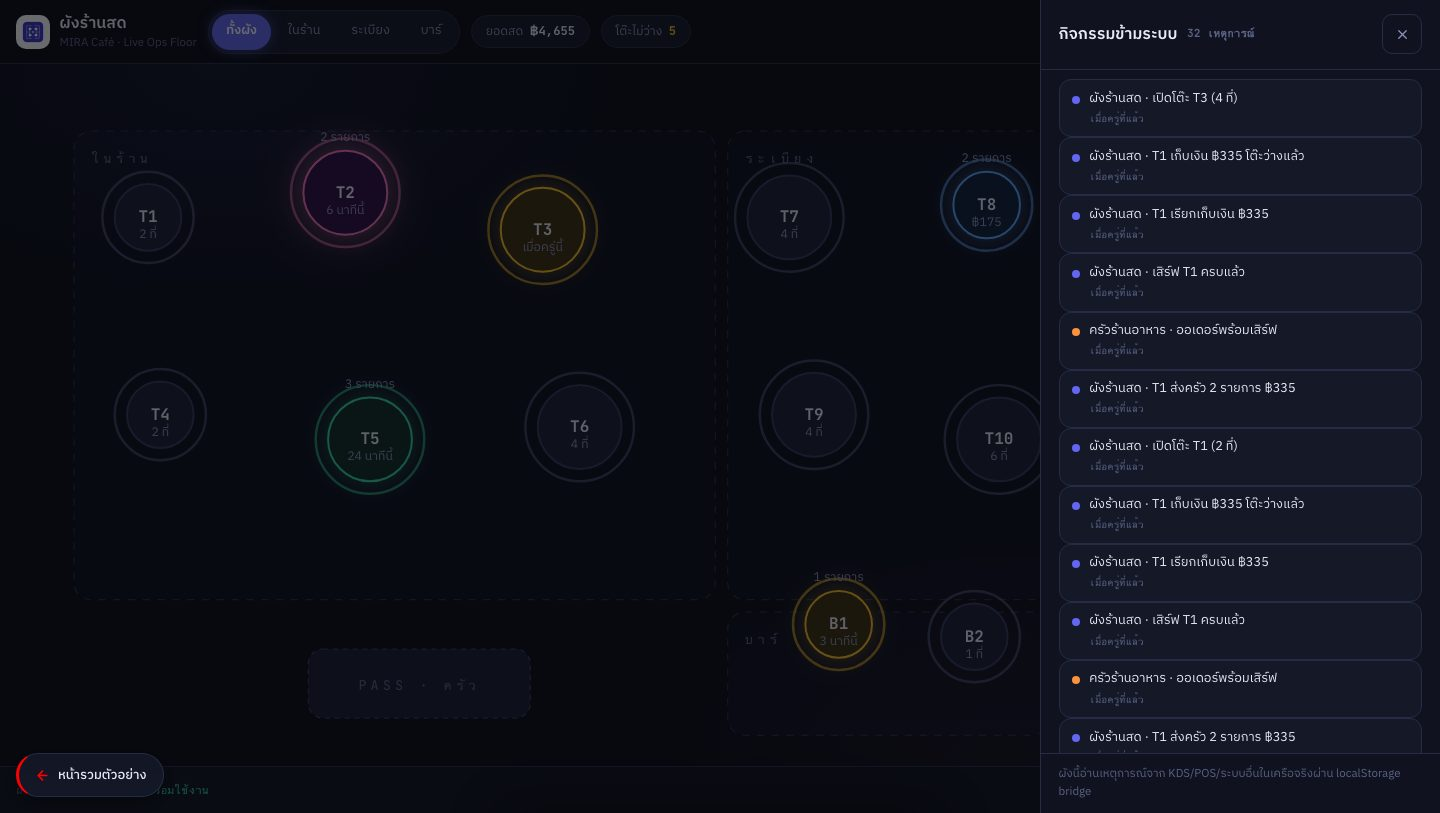
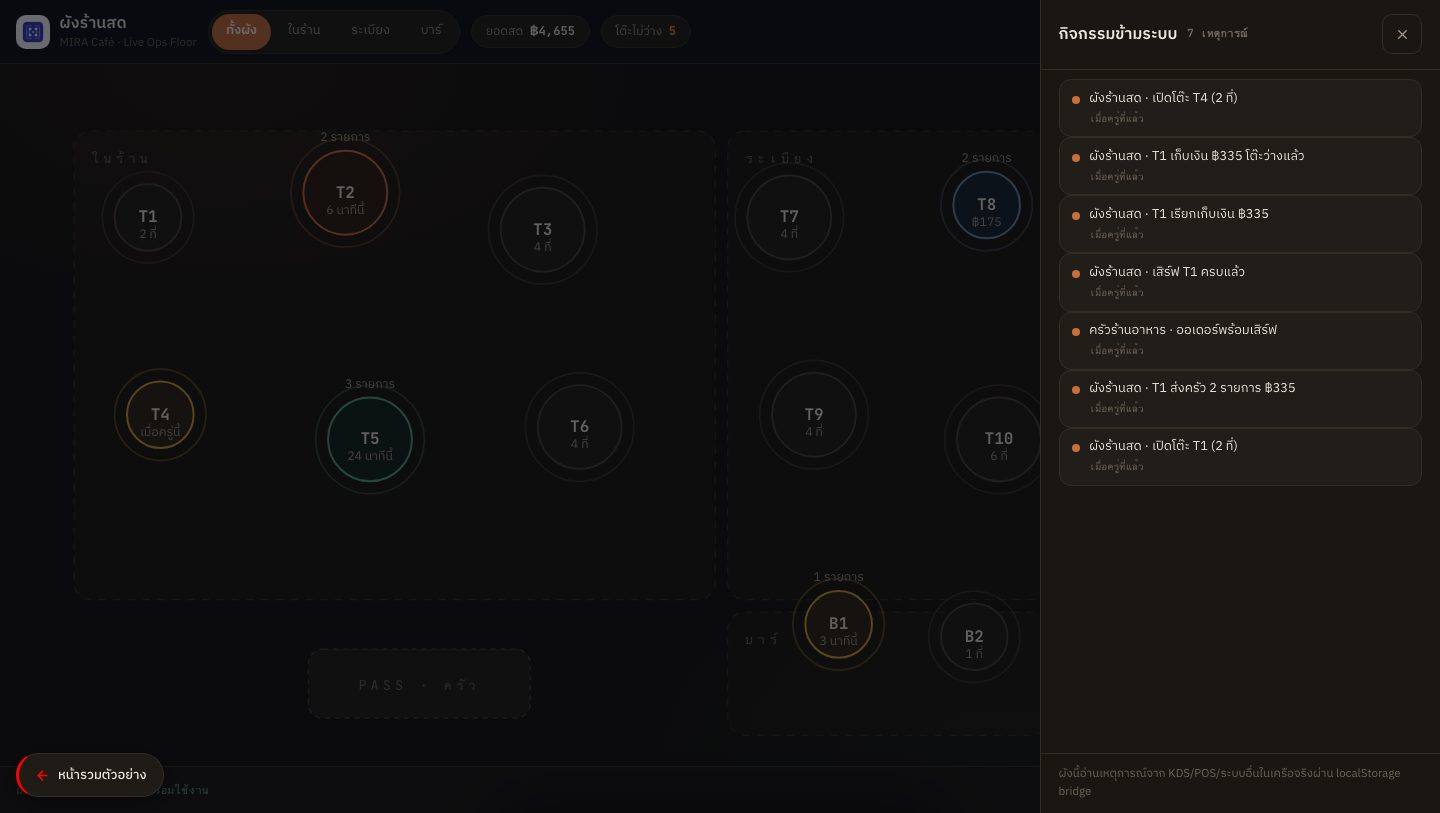
Floor: fix hover jump bug + replace AI-look indigo/neon palette with warm matte ops palette
- hover bug: CSS transform:scale() on .tbl replaced the SVG transform attribute, teleporting tables — removed entirely, now only stroke-width emphasis on hover
- palette: indigo/neon glow (signature AI look) -> warm matte: terracotta accent #c96f3b, warm charcoal bg #15120f, muted status colors, no drop-shadow glows
- all JS-side colors (status map, feed dots, sheet chips, canvas dots) muted to match
- retested after restyle: 25/25 PASS, 0 JS errors; hub card accent synced

diff --git a/systems/floor/index.html b/systems/floor/index.html
@@ -12,11 +12,11 @@
 <link href="https://fonts.googleapis.com/css2?family=IBM+Plex+Sans+Thai:wght@300;400;500;600&family=JetBrains+Mono:wght@400;500;700&display=swap" rel="stylesheet">
 <style>
 :root{
-  --acc:#6366f1; --acc-hi:#818cf8; --acc-deep:#4338ca;
-  --bg:#0a0c14; --bg2:#10131f; --panel:#141827; --panel2:#1a1f33;
-  --line:#262c44; --line2:#333b5e;
-  --ink:#e8eaf6; --muted:#8b93b8; --dim:#5a6285;
-  --green:#34d399; --amber:#fbbf24; --orange:#fb923c; --red:#f87171; --blue:#60a5fa; --pink:#f472b6;
+  --acc:#c96f3b; --acc-hi:#e08a52; --acc-deep:#a8542a;
+  --bg:#15120f; --bg2:#1a1713; --panel:#211d18; --panel2:#282219;
+  --line:#332d24; --line2:#4a4132;
+  --ink:#ece6dc; --muted:#a3988a; --dim:#6e6558;
+  --green:#5da383; --amber:#d9a13b; --orange:#c96f3b; --red:#c65f5f; --blue:#6b8cae; --pink:#b87a94;
   --mono:'JetBrains Mono',monospace;
   --spring:cubic-bezier(.34,1.56,.64,1);
 }
@@ -28,10 +28,10 @@ input{font:inherit;color:inherit}
 :focus-visible{outline:2px solid var(--acc-hi);outline-offset:2px}
 [hidden]{display:none!important}
 .mono{font-family:var(--mono);font-variant-numeric:tabular-nums}
-::selection{background:#312e81}
+::selection{background:#4a3a28}
 
 /* ============ BOOT ============ */
-.boot{position:fixed;inset:0;z-index:900;display:grid;place-items:center;background:radial-gradient(900px 600px at 50% 40%,#141a36,#0a0c14 70%)}
+.boot{position:fixed;inset:0;z-index:900;display:grid;place-items:center;background:radial-gradient(900px 600px at 50% 40%,#241c12,#15120f 70%)}
 .boot-in{text-align:center}
 .radar{width:120px;height:120px;margin:0 auto 1.4rem;position:relative}
 .radar::before,.radar::after{content:'';position:absolute;inset:0;border-radius:50%;border:1.5px solid var(--acc)}
@@ -43,7 +43,7 @@ input{font:inherit;color:inherit}
 .boot .ver{font-family:var(--mono);font-size:.78rem;color:var(--acc-hi);letter-spacing:.35em;margin-top:.3rem}
 .boot .stat{font-family:var(--mono);font-size:.72rem;color:var(--dim);margin-top:1.2rem;min-height:1.2em}
 .boot .bar{width:200px;height:2px;background:var(--line);margin:.7rem auto 0;border-radius:2px;overflow:hidden}
-.boot .bar i{display:block;height:100%;width:0;background:linear-gradient(90deg,var(--acc),var(--pink));transition:width .3s}
+.boot .bar i{display:block;height:100%;width:0;background:linear-gradient(90deg,var(--acc),var(--amber));transition:width .3s}
 
 /* ============ SHELL ============ */
 .app{min-height:100vh;display:flex;flex-direction:column}
@@ -53,7 +53,7 @@ input{font:inherit;color:inherit}
 .brand small{font-weight:400;color:var(--dim);font-size:.72rem;display:block;margin-top:-.2rem}
 .zones{display:flex;background:var(--panel);border:1px solid var(--line);border-radius:99px;padding:3px;gap:2px}
 .zones button{padding:.35rem .9rem;border-radius:99px;font-size:.8rem;color:var(--muted);min-height:36px;transition:all .2s var(--spring)}
-.zones button.on{background:var(--acc);color:#fff;font-weight:600;box-shadow:0 0 14px rgba(99,102,241,.5)}
+.zones button.on{background:var(--acc);color:#fff;font-weight:600}
 .kpi-pill{display:flex;align-items:center;gap:.4rem;background:var(--panel);border:1px solid var(--line);border-radius:99px;padding:.35rem .85rem;font-size:.76rem;color:var(--muted)}
 .kpi-pill b{font-family:var(--mono);font-weight:700;color:var(--ink)}
 .kpi-pill.hot b{color:var(--amber)}
@@ -61,33 +61,33 @@ input{font:inherit;color:inherit}
 .clock{font-family:var(--mono);font-size:.88rem;color:var(--muted)}
 .icbtn{width:42px;height:42px;border-radius:11px;border:1px solid var(--line);display:grid;place-items:center;color:var(--muted);transition:all .2s;background:var(--panel)}
 .icbtn:hover{border-color:var(--acc);color:var(--acc-hi)}
-.icbtn.on{border-color:var(--acc);color:var(--acc-hi);box-shadow:0 0 12px rgba(99,102,241,.35)}
+.icbtn.on{border-color:var(--acc);color:var(--acc-hi)}
 
 /* ============ MAIN ============ */
 .main{flex:1;display:grid;grid-template-columns:1fr 330px;min-height:0}
 @media(max-width:1000px){.main{grid-template-columns:1fr}.rail-r{display:none}}
 .floor-wrap{position:relative;overflow:hidden;background:
-  radial-gradient(700px 400px at 20% 0%,rgba(99,102,241,.08),transparent 60%),
-  radial-gradient(600px 400px at 90% 100%,rgba(244,114,182,.05),transparent 60%),var(--bg)}
+  radial-gradient(700px 400px at 20% 0%,rgba(201,111,59,.06),transparent 60%),
+  radial-gradient(600px 400px at 90% 100%,rgba(93,163,131,.04),transparent 60%),var(--bg)}
 #floorDots{position:absolute;inset:0;pointer-events:none;z-index:5}
 svg#floorSvg{display:block;width:100%;height:100%;min-height:520px}
-.zone-rect{fill:rgba(99,102,241,.03);stroke:var(--line);stroke-dasharray:6 6;stroke-width:1;rx:14}
+.zone-rect{fill:rgba(217,161,59,.03);stroke:var(--line);stroke-dasharray:6 6;stroke-width:1;rx:14}
 .zone-label{font-family:var(--mono);font-size:11px;letter-spacing:.3em;fill:var(--dim);text-transform:uppercase}
-.tbl{cursor:pointer;transition:transform .25s var(--spring)}
-.tbl:hover{transform:scale(1.08)}
-.tbl .base{transition:fill .4s,stroke .4s,filter .4s}
+.tbl{cursor:pointer}
+.tbl .base{transition:fill .4s,stroke .4s}
+.tbl:hover .base{stroke-width:2.6}
 .tbl .tno{font-family:var(--mono);font-size:13px;font-weight:700;fill:var(--ink);text-anchor:middle;pointer-events:none}
 .tbl .tsub{font-size:10px;fill:var(--muted);text-anchor:middle;pointer-events:none}
-.tbl.st-empty .base{fill:#1b2033;stroke:var(--line2)}
-.tbl.st-open .base{fill:#3b2f10;stroke:var(--amber);filter:drop-shadow(0 0 10px rgba(251,191,36,.35))}
-.tbl.st-cooking .base{fill:#3c1f10;stroke:var(--orange);filter:drop-shadow(0 0 12px rgba(251,146,60,.45))}
-.tbl.st-served .base{fill:#0f2e22;stroke:var(--green);filter:drop-shadow(0 0 10px rgba(52,211,153,.35))}
-.tbl.st-billing .base{fill:#10203c;stroke:var(--blue);filter:drop-shadow(0 0 10px rgba(96,165,250,.4))}
-.tbl.st-ready .base{fill:#2e1040;stroke:var(--pink);filter:drop-shadow(0 0 16px rgba(244,114,182,.6));animation:readyPulse 1s ease-in-out infinite}
+.tbl.st-empty .base{fill:#211d18;stroke:var(--line2)}
+.tbl.st-open .base{fill:#2e2414;stroke:var(--amber)}
+.tbl.st-cooking .base{fill:#2e1c11;stroke:var(--orange)}
+.tbl.st-served .base{fill:#14241c;stroke:var(--green)}
+.tbl.st-billing .base{fill:#17222e;stroke:var(--blue)}
+.tbl.st-ready .base{fill:#2c1822;stroke:var(--pink);animation:readyPulse 1.2s ease-in-out infinite}
 @keyframes readyPulse{50%{stroke-width:3.5}}
-.tbl.dim{opacity:.18;pointer-events:none}
-.tbl.sel .base{stroke-width:3}
-.heat-ring{fill:none;stroke-width:2;opacity:.6;pointer-events:none}
+.tbl.dim{opacity:.22;pointer-events:none}
+.tbl.sel .base{stroke-width:2.6}
+.heat-ring{fill:none;stroke-width:1.4;opacity:.35;pointer-events:none}
 
 /* right rail */
 .rail-r{border-left:1px solid var(--line);background:var(--bg2);display:flex;flex-direction:column;min-height:0}
@@ -127,7 +127,7 @@ svg#floorSvg{display:block;width:100%;height:100%;min-height:520px}
 .sheet-f{padding:.7rem 1.1rem 1.1rem;display:flex;gap:.6rem;border-top:1px solid var(--line)}
 .btn{display:inline-flex;align-items:center;justify-content:center;gap:.5rem;font-weight:600;border-radius:12px;padding:.75rem 1.1rem;min-height:48px;transition:all .18s var(--spring);flex:1;font-size:.9rem}
 .btn:active{transform:scale(.97)}
-.btn-a{background:var(--acc);color:#fff;box-shadow:0 8px 24px -8px rgba(99,102,241,.6)}
+.btn-a{background:var(--acc);color:#fff;box-shadow:0 8px 24px -10px rgba(201,111,59,.5)}
 .btn-a:hover{background:var(--acc-hi)}
 .btn-o{border:1.5px solid var(--line2);color:var(--muted)}
 .btn-o:hover{border-color:var(--acc);color:var(--acc-hi)}
@@ -241,7 +241,7 @@ svg#floorSvg{display:block;width:100%;height:100%;min-height:520px}
 
 <div class="toast" id="toast"></div>
 
-<a href="../" aria-label="กลับไปหน้ารวมตัวอย่าง" style="position:fixed;left:16px;bottom:16px;z-index:800;display:inline-flex;align-items:center;gap:8px;min-height:44px;background:rgba(20,24,39,.92);backdrop-filter:blur(8px);border:1px solid #262c44;border-left:3px solid #FF0000;border-radius:99px;padding:9px 16px;font-size:13px;font-weight:500;color:#e8eaf6;text-decoration:none;box-shadow:0 6px 20px rgba(0,0,0,.4)">
+<a href="../" aria-label="กลับไปหน้ารวมตัวอย่าง" style="position:fixed;left:16px;bottom:16px;z-index:800;display:inline-flex;align-items:center;gap:8px;min-height:44px;background:rgba(33,29,24,.92);backdrop-filter:blur(8px);border:1px solid #332d24;border-left:3px solid #FF0000;border-radius:99px;padding:9px 16px;font-size:13px;font-weight:500;color:#ece6dc;text-decoration:none;box-shadow:0 6px 20px rgba(0,0,0,.4)">
 <svg width="15" height="15" viewBox="0 0 24 24" fill="none" stroke="#FF0000" stroke-width="2.5" stroke-linecap="round" stroke-linejoin="round"><path d="M19 12H5M12 19l-7-7 7-7"/></svg>
 หน้ารวมตัวอย่าง
 </a>
@@ -268,7 +268,7 @@ var TABLE_DEF=[
   {no:'B1',x:680,y:450,z:'bar',c:1},{no:'B2',x:790,y:460,z:'bar',c:1}
 ];
 var ZONES={inside:{n:'ในร้าน',x:60,y:50,w:520,h:380},patio:{n:'ระเบียง',x:590,y:50,w:260,h:380},bar:{n:'บาร์',x:590,y:440,w:260,h:100}};
-var ST={empty:{n:'ว่าง',c:'#5a6285'},open:{n:'เปิดโต๊ะ',c:'#fbbf24'},cooking:{n:'รอครัว',c:'#fb923c'},ready:{n:'พร้อมเสิร์ฟ',c:'#f472b6'},served:{n:'เสิร์ฟแล้ว',c:'#34d399'},billing:{n:'เรียกเก็บเงิน',c:'#60a5fa'}};
+var ST={empty:{n:'ว่าง',c:'#6e6558'},open:{n:'เปิดโต๊ะ',c:'#d9a13b'},cooking:{n:'รอครัว',c:'#c96f3b'},ready:{n:'พร้อมเสิร์ฟ',c:'#b87a94'},served:{n:'เสิร์ฟแล้ว',c:'#5da383'},billing:{n:'เรียกเก็บเงิน',c:'#6b8cae'}};
 
 function seed(){
   var t=Date.now();
@@ -322,7 +322,7 @@ function renderFloor(){
   });
   // kitchen pass (จุดส่งอาหาร)
   var pass=el('g',{});
-  pass.appendChild(el('rect',{x:250,y:470,width:180,height:56,rx:12,fill:'#1a1f33',stroke:'#333b5e','stroke-dasharray':'4 4'}));
+  pass.appendChild(el('rect',{x:250,y:470,width:180,height:56,rx:12,fill:'#211d18',stroke:'#4a4132','stroke-dasharray':'4 4'}));
   var pt=el('text',{x:340,y:503,'class':'zone-label','text-anchor':'middle'});pt.textContent='PASS · ครัว';pass.appendChild(pt);
   svg.appendChild(pass);
   // tables
@@ -356,7 +356,7 @@ function svgToPx(p){return{x:p.x/900*cvs.width,y:p.y/560*cvs.height}}
 function spawnDot(no,color,onDone){
   var t=tbl(no);if(!t)return;
   var a=svgToPx(PASS),b=svgToPx(t);
-  dots.push({x0:a.x,y0:a.y,x1:b.x,y1:b.y,p:0,color:color||'#f472b6',t:no,onDone:onDone,back:false});
+  dots.push({x0:a.x,y0:a.y,x1:b.x,y1:b.y,p:0,color:color||'#b87a94',t:no,onDone:onDone,back:false});
 }
 function tickDots(){
   ctx.clearRect(0,0,cvs.width,cvs.height);
@@ -415,7 +415,7 @@ function openTable(t){
   t.st='open';t.opened=Date.now();t.items=[];
   save();renderAll();
   linkWrite('floor','table-open','ผังร้านสด · เปิดโต๊ะ '+t.no+' ('+t.c+' ที่)',null);
-  feed('#fbbf24','เปิดโต๊ะ '+t.no+' — ลูกค้า '+t.c+' ที่');
+  feed('#d9a13b','เปิดโต๊ะ '+t.no+' — ลูกค้า '+t.c+' ที่');
   blip(520,.09);
 }
 function addItem(t,mid){
@@ -429,15 +429,15 @@ function sendKitchen(t){
   t.st='cooking';save();renderAll();
   var tot=tblTotal(t);
   linkWrite('floor','order','ผังร้านสด · '+t.no+' ส่งครัว '+t.items.length+' รายการ '+fmt(tot),tot);
-  feed('#fb923c',t.no+' ส่งครัว '+t.items.length+' รายการ ('+fmt(tot)+')');
-  spawnDot(t.no,'#fb923c',null);
+  feed('#c96f3b',t.no+' ส่งครัว '+t.items.length+' รายการ ('+fmt(tot)+')');
+  spawnDot(t.no,'#c96f3b',null);
   chime();
   // จำลองครัวทำเสร็จใน 18-30 วิ (ถ้า KDS จริงไม่ได้ตอบกลับ)
   setTimeout(function(){
     if(t.st==='cooking'){
       t.st='ready';save();renderAll();
       linkWrite('floor','ready','ผังร้านสด · อาหาร '+t.no+' พร้อมเสิร์ฟ',null);
-      feed('#f472b6',t.no+' พร้อมเสิร์ฟแล้ว (ครัวจำลอง)');
+      feed('#b87a94',t.no+' พร้อมเสิร์ฟแล้ว (ครัวจำลอง)');
       chime();
     }
   },18000+Math.random()*12000);
@@ -445,13 +445,13 @@ function sendKitchen(t){
 function serveTable(t){
   t.st='served';save();renderAll();
   linkWrite('floor','served','ผังร้านสด · เสิร์ฟ '+t.no+' ครบแล้ว',null);
-  feed('#34d399','เสิร์ฟ '+t.no+' ครบแล้ว');
-  spawnDot(t.no,'#34d399',null);
+  feed('#5da383','เสิร์ฟ '+t.no+' ครบแล้ว');
+  spawnDot(t.no,'#5da383',null);
 }
 function billTable(t){
   t.st='billing';save();renderAll();
   linkWrite('floor','billing','ผังร้านสด · '+t.no+' เรียกเก็บเงิน '+fmt(tblTotal(t)),tblTotal(t));
-  feed('#60a5fa',t.no+' เรียกเก็บเงิน '+fmt(tblTotal(t)));
+  feed('#6b8cae',t.no+' เรียกเก็บเงิน '+fmt(tblTotal(t)));
 }
 function payTable(t){
   var tot=tblTotal(t);
@@ -459,14 +459,14 @@ function payTable(t){
   t.st='empty';t.items=[];t.opened=null;t.readyAt=null;
   save();renderAll();closeSheet();
   linkWrite('floor','paid','ผังร้านสด · '+t.no+' เก็บเงิน '+fmt(tot)+' โต๊ะว่างแล้ว',tot);
-  feed('#34d399','เก็บเงิน '+t.no+' '+fmt(tot)+' — โต๊ะว่าง');
-  spawnDot(t.no,'#60a5fa',null);
+  feed('#5da383','เก็บเงิน '+t.no+' '+fmt(tot)+' — โต๊ะว่าง');
+  spawnDot(t.no,'#6b8cae',null);
   chime();
 }
 function clearTable(t){
   t.st='empty';t.items=[];t.opened=null;
   save();renderAll();closeSheet();
-  feed('#5a6285','เคลียร์ '+t.no+' (ยกเลิก)');
+  feed('#6e6558','เคลียร์ '+t.no+' (ยกเลิก)');
 }
 
 /* ---------- sheet ---------- */
@@ -479,7 +479,7 @@ function closeSheet(){selNo=null;document.getElementById('sheet').classList.remo
 document.getElementById('shClose').addEventListener('click',closeSheet);
 document.addEventListener('keydown',function(e){if(e.key==='Escape'){closeSheet();closeFeed()}});
 
-var STT_CLASS={empty:'background:#1b2033;color:#8b93b8',open:'background:#3b2f10;color:#fbbf24',cooking:'background:#3c1f10;color:#fb923c',ready:'background:#2e1040;color:#f472b6',served:'background:#0f2e22;color:#34d399',billing:'background:#10203c;color:#60a5fa'};
+var STT_CLASS={empty:'background:#211d18;color:#a3988a',open:'background:#2e2414;color:#d9a13b',cooking:'background:#2e1c11;color:#c96f3b',ready:'background:#2c1822;color:#b87a94',served:'background:#14241c;color:#5da383',billing:'background:#17222e;color:#6b8cae'};
 function renderSheet(t){
   document.getElementById('shNo').textContent=t.no;
   var st=document.getElementById('shState');
@@ -560,10 +560,10 @@ function pollBridge(){
     if(e.t<=seenKds)return;
     if(e.sys==='kds'&&e.type==='order-ready'){
       var rd=state.tbls.find(function(t){return t.st==='cooking'});
-      if(rd){rd.st='ready';save();renderAll();feed('#f472b6',rd.no+' พร้อมเสิร์ฟ (ครัวดี KDS กดจริง)');chime()}
+      if(rd){rd.st='ready';save();renderAll();feed('#b87a94',rd.no+' พร้อมเสิร์ฟ (ครัวดี KDS กดจริง)');chime()}
     }
     if(e.sys==='pos'&&e.type==='sale'){
-      feed('#0c8a61','POS หยกมณีขายไป '+((e.val||0).toLocaleString('th-TH'))+' บาท (ข้ามระบบ)',e.t);
+      feed('#5da383','POS หยกมณีขายไป '+((e.val||0).toLocaleString('th-TH'))+' บาท (ข้ามระบบ)',e.t);
     }
   });
   if(l.events.length)seenKds=Math.max(seenKds,l.events[0].t);
@@ -594,14 +594,14 @@ document.getElementById('offBtn').addEventListener('click',function(){
 document.getElementById('resetBtn').addEventListener('click',function(){
   if(confirm('รีเซ็ตผังร้านกลับตัวอย่าง?')){
     localStorage.removeItem(LS);state=blank();save();closeSheet();renderAll();
-    feedItems=[];feed('#5a6285','รีเซ็ตข้อมูลตัวอย่างแล้ว');
+    feedItems=[];feed('#6e6558','รีเซ็ตข้อมูลตัวอย่างแล้ว');
     toast('รีเซ็ตแล้ว');
   }
 });
 
 /* ---------- feed drawer ---------- */
 var lastSeenFeed=0;
-function sysColor(sys){var M={pos:'#0c8a61',kds:'#fb923c',queue:'#9333ea',crm:'#5b5bd6',inv:'#d97706',docs:'#0284c7',hr:'#0d9488',dorm:'#b45309',appt:'#c2410c',school:'#0ea5e9',gym:'#65a30d',repair:'#be185d',hotel:'#1e3a8a',laundry:'#c026d3',purch:'#475569',loyalty:'#7c3aed',kanban:'#0f766e',cashbook:'#15803d',sales:'#0369a1',admin:'#7c2d12',delivery:'#0284c7',rental:'#a16207',tournament:'#b91c1c',floor:'#6366f1'};return M[sys]||'#64748b'}
+function sysColor(sys){var M={pos:'#5da383',kds:'#c96f3b',queue:'#9333ea',crm:'#5b5bd6',inv:'#d97706',docs:'#0284c7',hr:'#0d9488',dorm:'#b45309',appt:'#c2410c',school:'#0ea5e9',gym:'#65a30d',repair:'#be185d',hotel:'#1e3a8a',laundry:'#c026d3',purch:'#475569',loyalty:'#7c3aed',kanban:'#0f766e',cashbook:'#15803d',sales:'#0369a1',admin:'#7c2d12',delivery:'#0284c7',rental:'#a16207',tournament:'#b91c1c',floor:'#c96f3b'};return M[sys]||'#64748b'}
 function renderFeedDrawer(){
   var l=linkRead();
   document.getElementById('feedCount').textContent=l.events.length+' เหตุการณ์';
@@ -615,7 +615,7 @@ function updateFeedBadge(){
   var l=linkRead();
   var newer=l.events.filter(function(e){return e.t>lastSeenFeed&&e.sys!=='floor'}).length;
   var b=document.getElementById('feedBtn');
-  b.style.boxShadow=(newer&&!document.getElementById('feedDrawer').classList.contains('open'))?'0 0 12px rgba(244,114,182,.6)':'';
+  b.style.boxShadow=(newer&&!document.getElementById('feedDrawer').classList.contains('open'))?'0 0 12px rgba(184,122,148,.5)':'';
 }
 document.getElementById('feedBtn').addEventListener('click',function(){
   renderFeedDrawer();
@@ -652,7 +652,7 @@ setInterval(function(){document.getElementById('clock').textContent=new Date().t
 setInterval(function(){renderFloor()},20000); // refresh ago labels
 save();
 renderAll();
-feed('#6366f1','เปิดกะวันนี้แล้ว — ผังพร้อมใช้งาน');
+feed('#c96f3b','เปิดกะวันนี้แล้ว — ผังพร้อมใช้งาน');
 tickDots();
 })();
 </script>

diff --git a/systems/index.html b/systems/index.html
@@ -204,7 +204,7 @@ footer a{color:var(--red)}
         </div>
       </a>
 <a class="card feature" data-cat="sell" href="./floor/?app=1">
-        <div class="thumb"><span class="acc" style="background:#6366f1"></span><img src="../shots/systems/floor.jpg" alt="ระบบผังร้านสด Live Ops Floor" loading="lazy"></div>
+        <div class="thumb"><span class="acc" style="background:#c96f3b"></span><img src="../shots/systems/floor.jpg" alt="ระบบผังร้านสด Live Ops Floor" loading="lazy"></div>
         <div class="body">
           <span class="name">ผังร้านสด Pro <small>Live Ops Floor · MIRA Café</small></span>
           <p class="desc">ตัว flagship — แผนผังร้านมีชีวิต: โต๊ะ 6 สถานะบน SVG · พนักงานเสิร์ฟวิ่งเป็นจุดแสงบน canvas · spring animation · เสียง WebAudio · จำลองลูกค้าสด · KDS กดจริง→โต๊ะเด้งพร้อมเสิร์ฟ</p>
